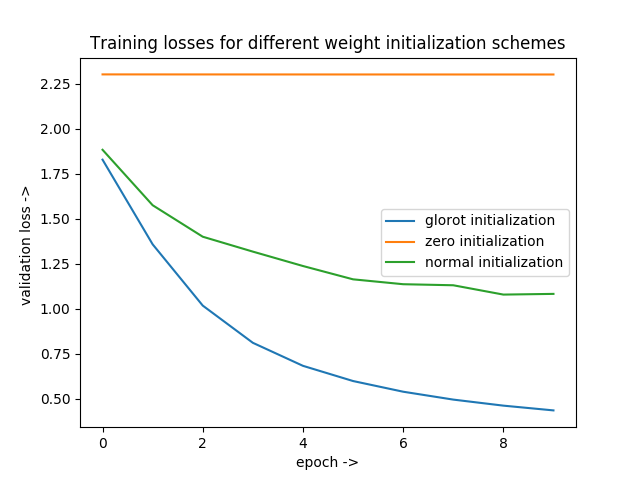
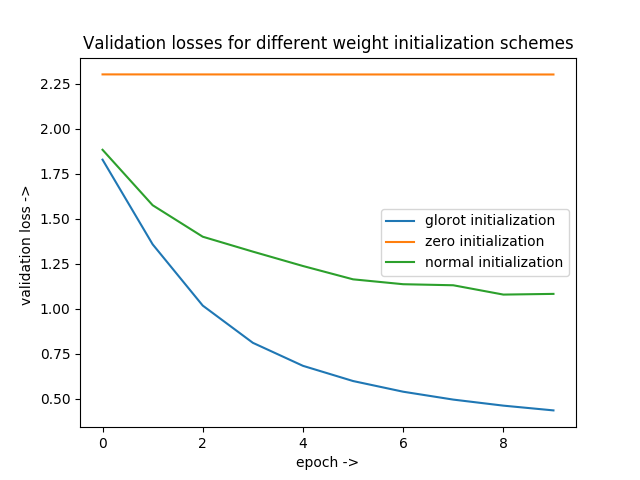
bug fix

Changed region(s): [[0.125, 0.0625, 0.9062, 0.125]]

diff --git a/Assignment1/Answers/practical/Que-2/plot_losses.py b/Assignment1/Answers/practical/Que-2/plot_losses.py
@@ -28,7 +28,7 @@ for key in output[0].keys():
 plt.legend(loc='center right')
 plt.xlabel('epoch ->')
 plt.ylabel('validation loss -> ')
-plt.title('Training losses for different weight initialization schemes')
+plt.title('Validation losses for different weight initialization schemes')
 plt.savefig('validation_losses.png')
 
 plt.clf()
